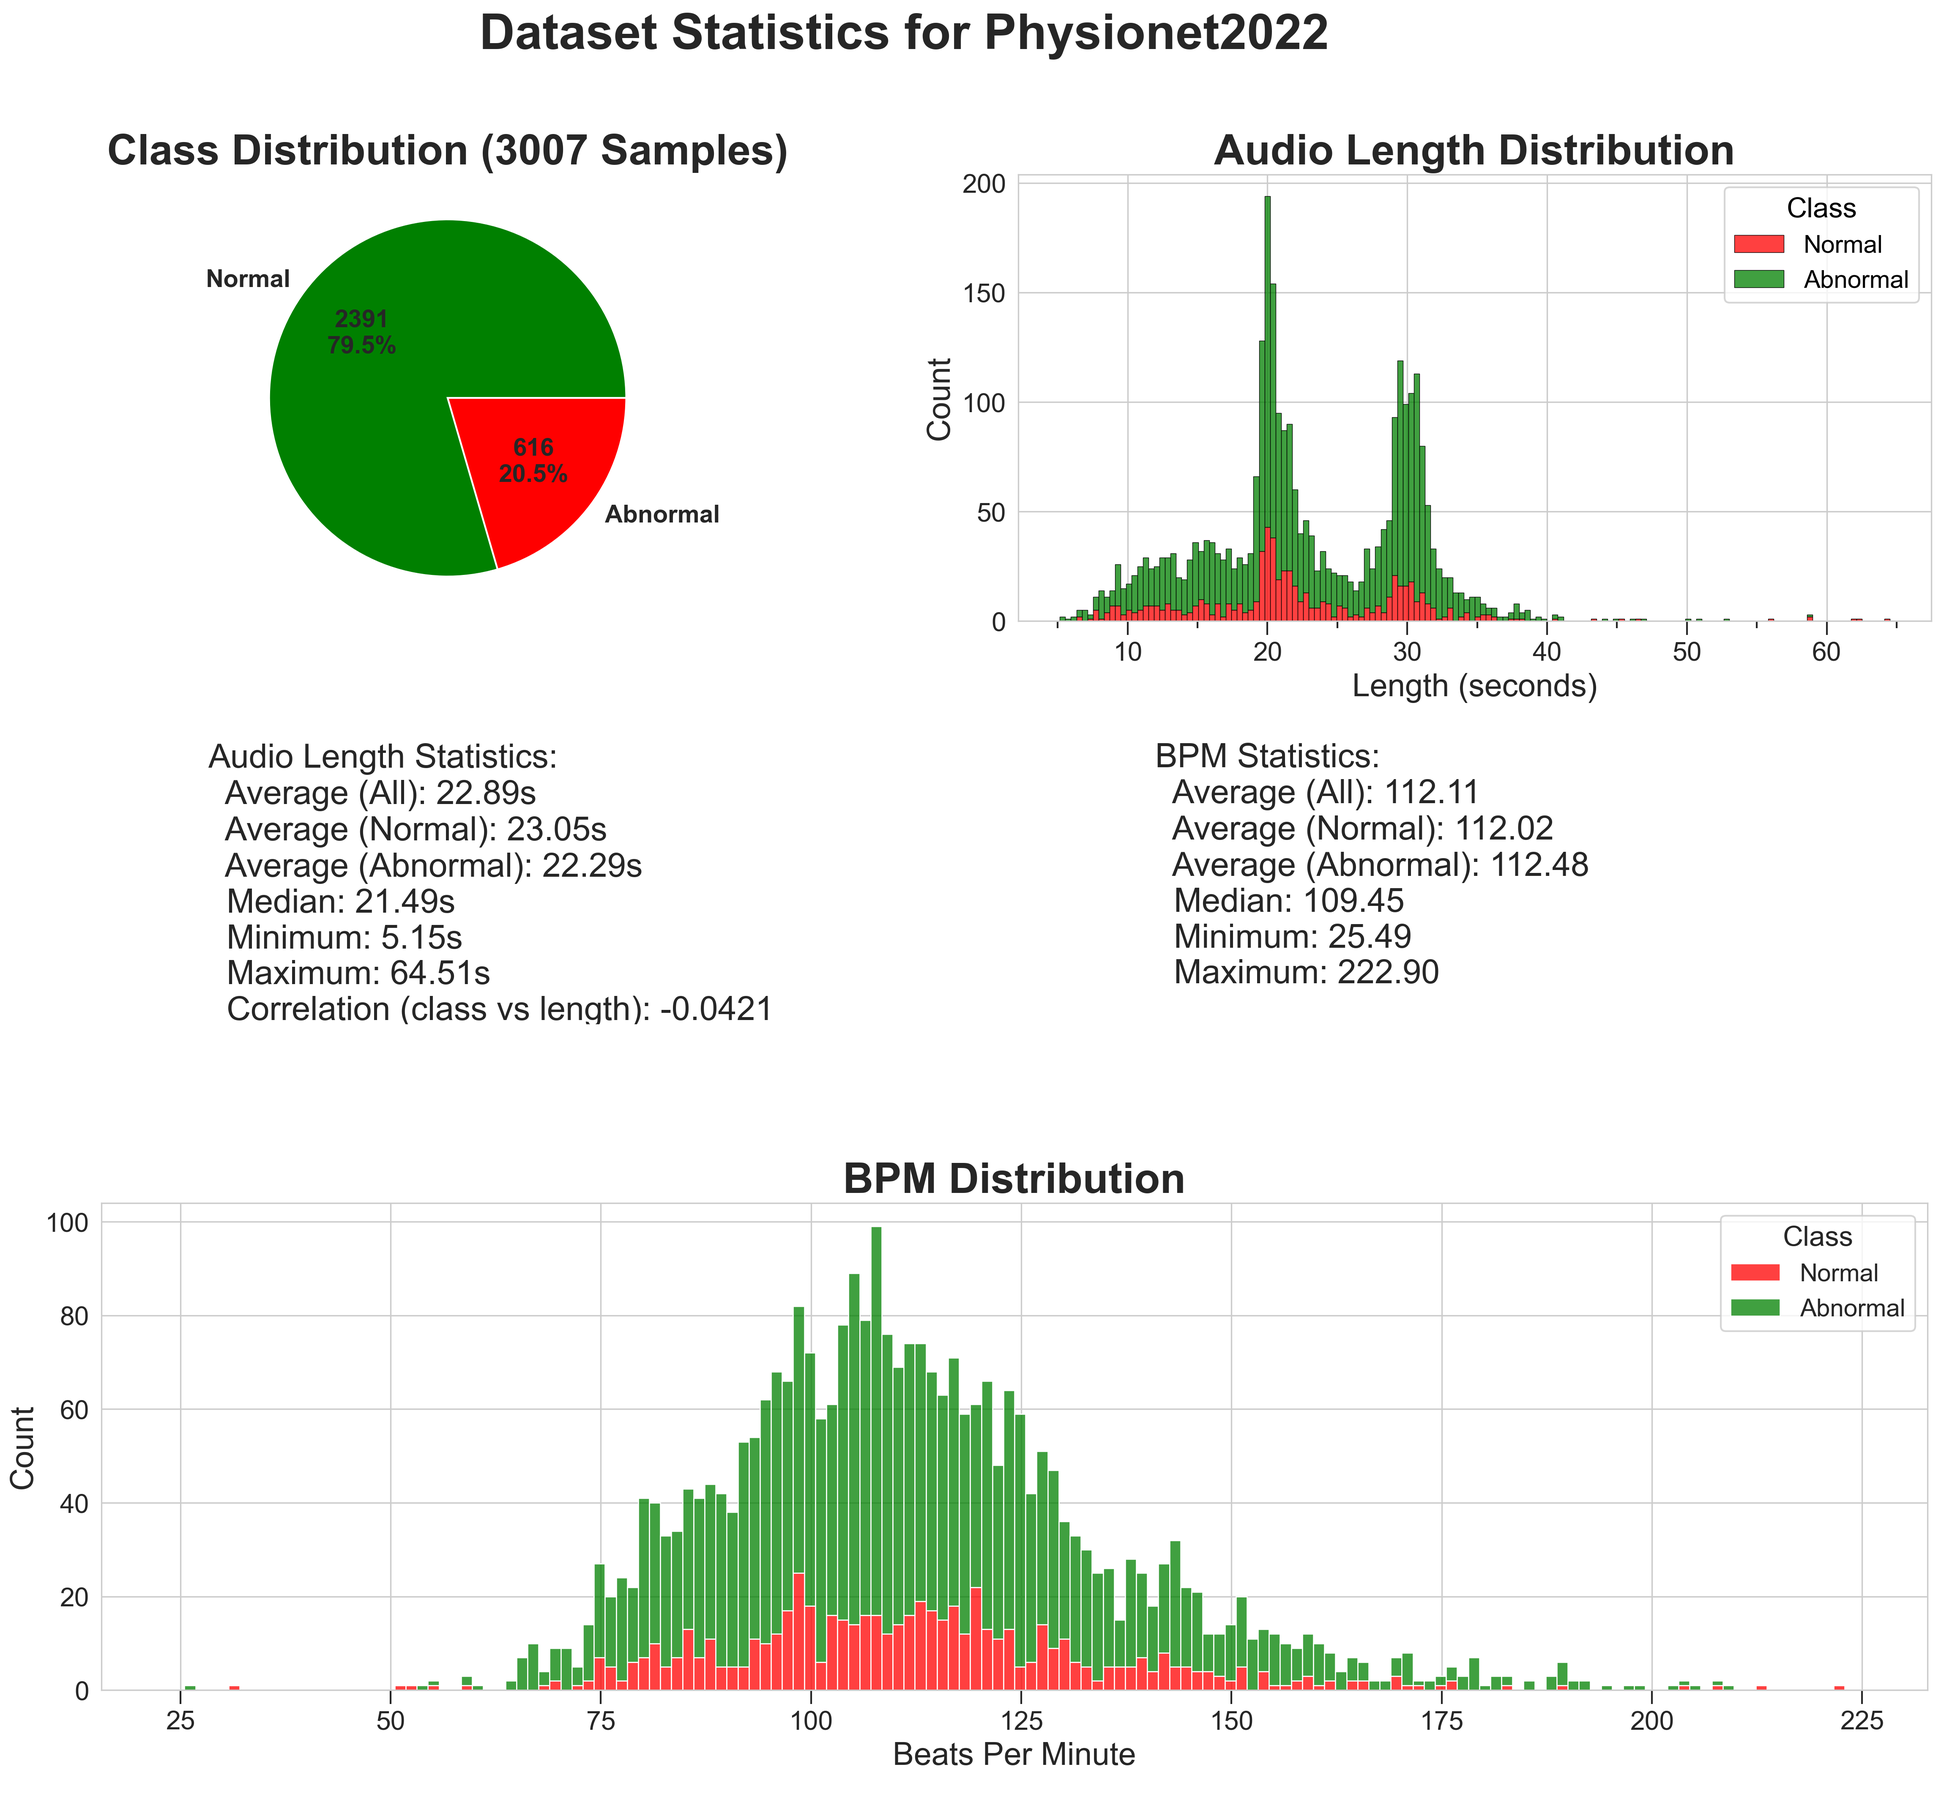
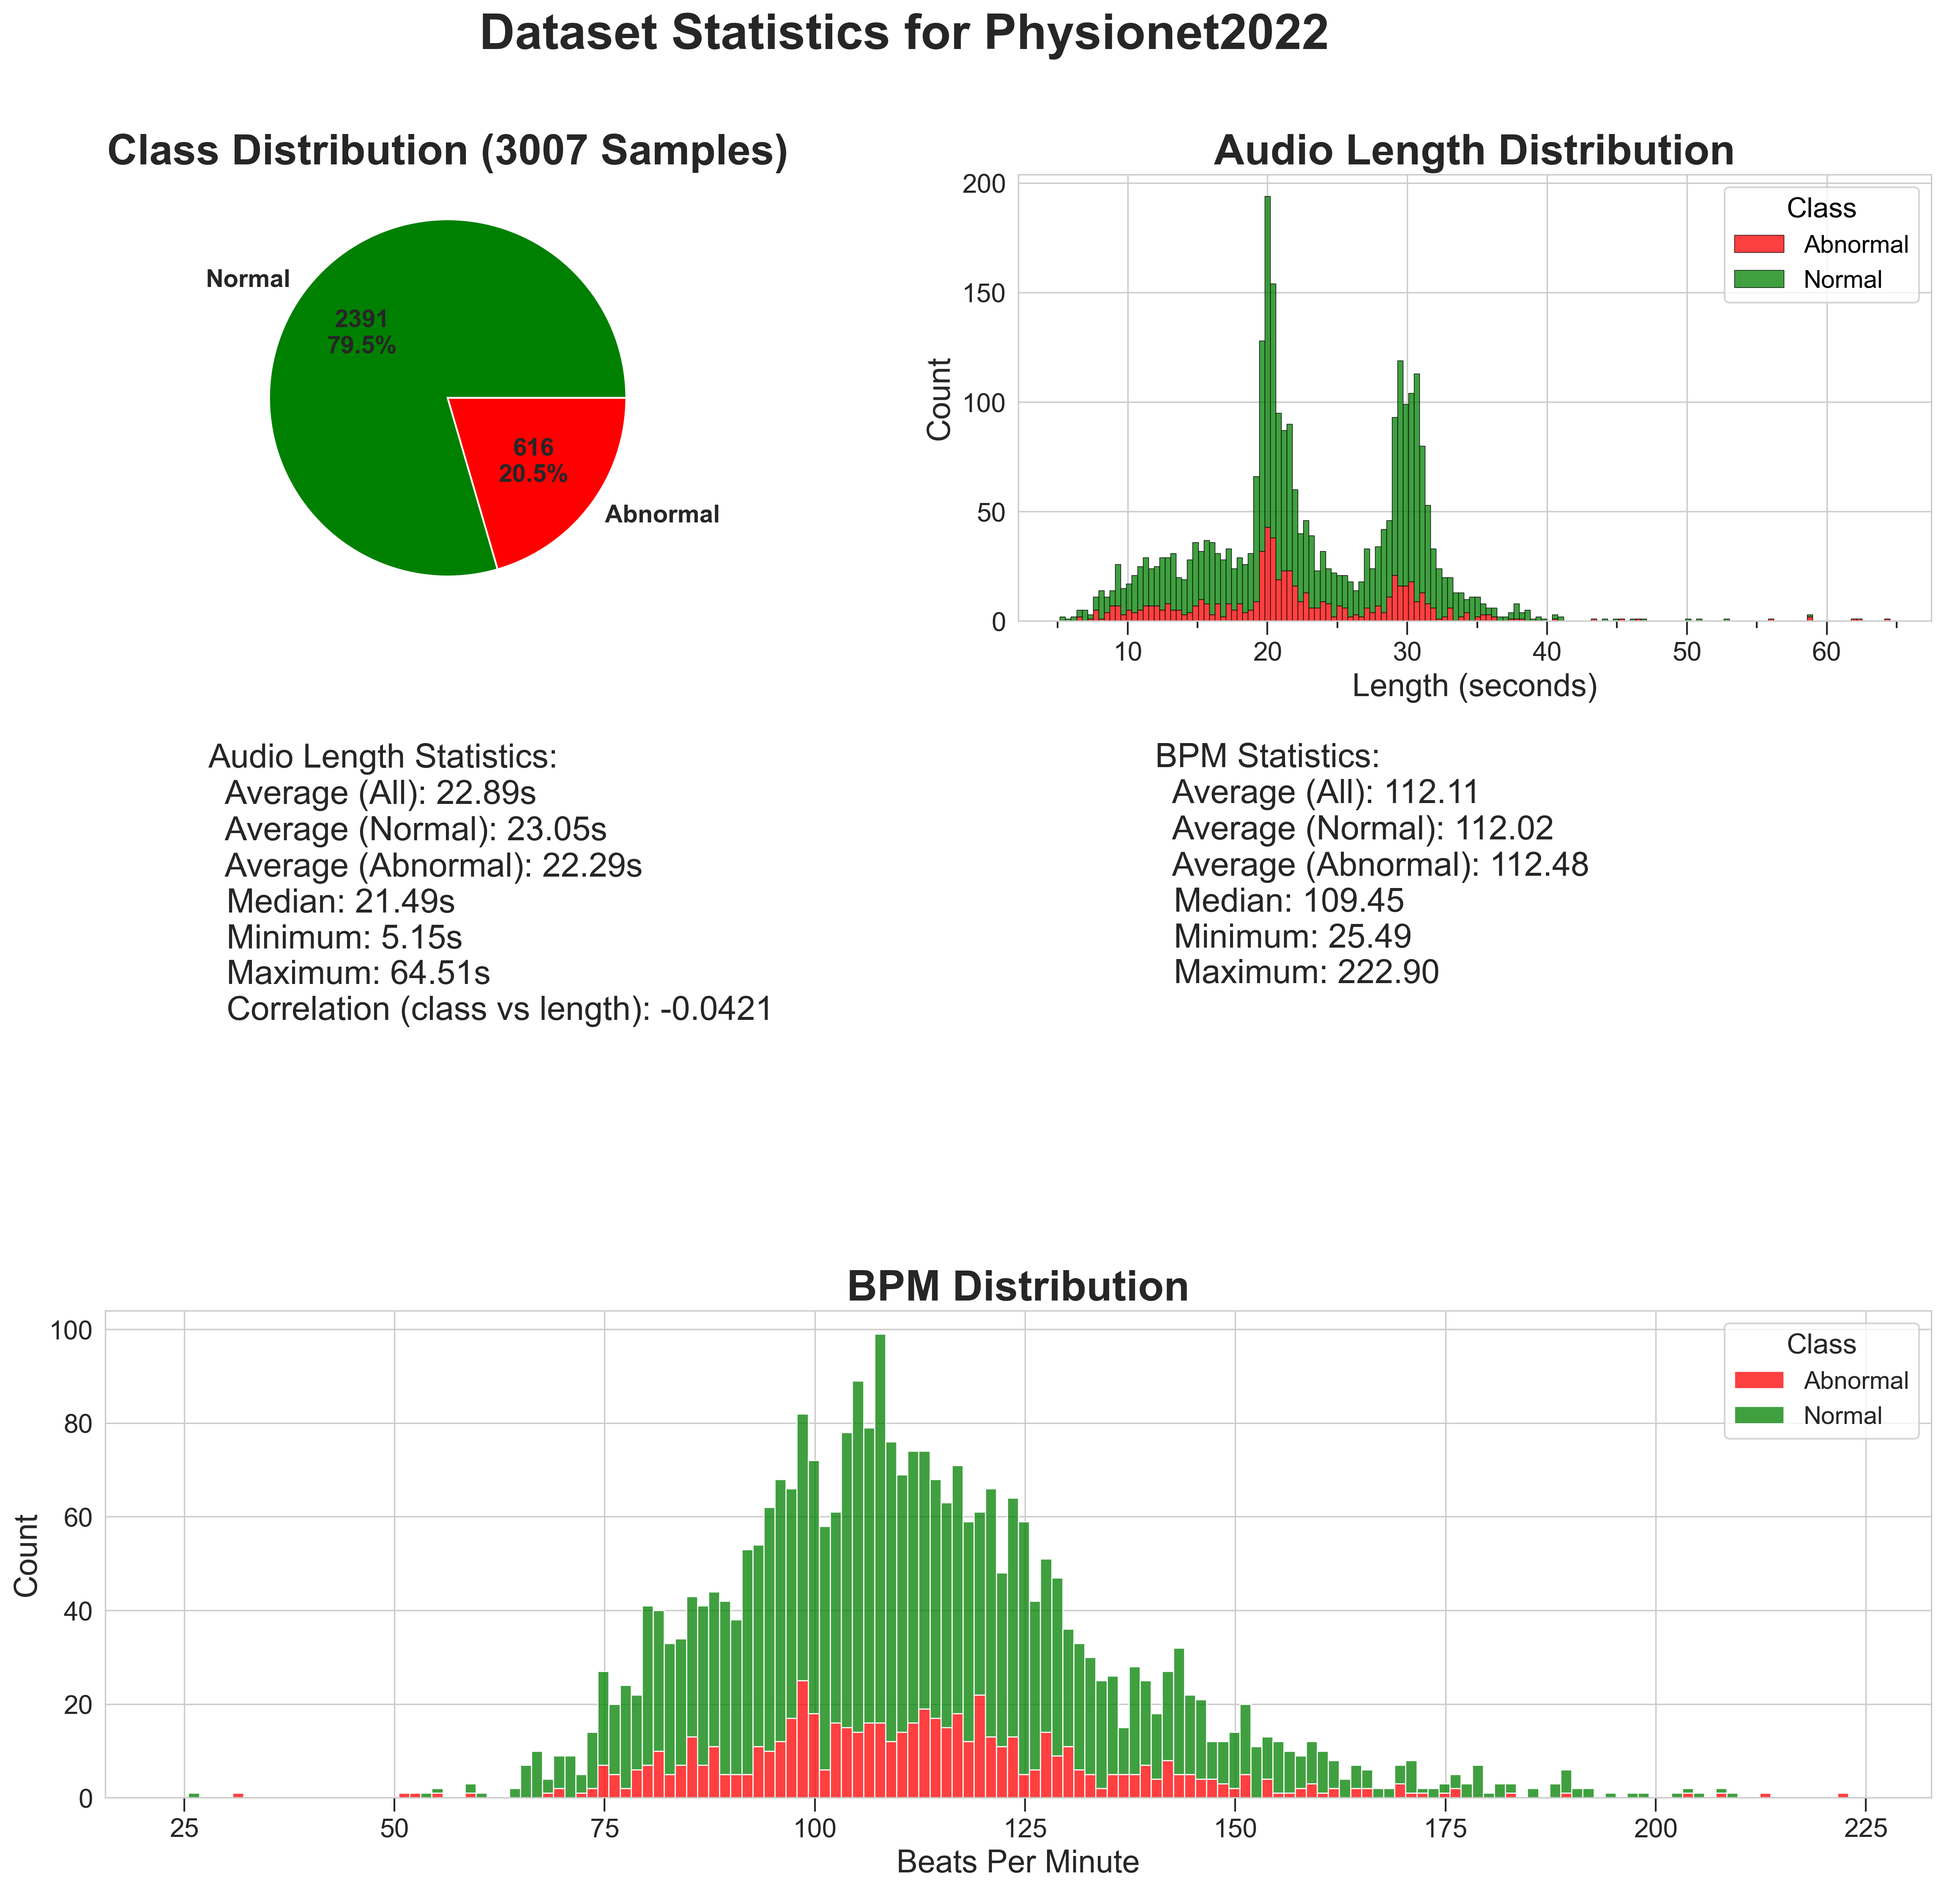
dataset statistics

diff --git a/build_dataset.py b/build_dataset.py
@@ -273,9 +273,6 @@ def calculate_bpm(data):
 		return len(data) / duration_in_minutes if duration_in_minutes > 0 else None
 	return None
 
-import numpy as np
-import pandas as pd
-
 def safe_numeric_conversion(series):
 	try:
 		return pd.to_numeric(series, errors='coerce')
@@ -289,6 +286,56 @@ def safe_correlation(s1, s2):
 		return s1_numeric.corr(s2_numeric)
 	except:
 		return "N/A (correlation calculation failed)"
+
+def get_auscultation_location_stats(filenames) -> dict:
+	"""
+	Returns total count for each location type.
+	Both unique counts per patient and total counts across dataset.
+	"""
+	locations = {
+		'AV': ['AV', 'AV1', 'AV2', 'AVR', 'AVL'],
+		'MV': ['MV', 'MV1', 'MV2', 'MVR', 'MVL'], 
+		'PV': ['PV', 'PV1', 'PV2', 'PVR', 'PVL'],
+		'TV': ['TV', 'TV1', 'TV2', 'TVR', 'TVL']
+	}
+	
+	if isinstance(filenames, str):
+		filenames = [filenames]
+		
+	# Count total occurrences
+	location_counts = {loc: 0 for loc in locations.keys()}
+	
+	for filename in filenames:
+		parts = Path(filename).stem.split('_')
+		if len(parts) < 2:
+			continue
+			
+		location_part = parts[1].upper()
+		
+		for std_loc, variations in locations.items():
+			if any(var in location_part for var in variations):
+				location_counts[std_loc] += 1
+				break
+	
+	# Also get unique count
+	unique_count = sum(1 for loc in location_counts.values() if loc > 0)
+	location_counts['unique_count'] = unique_count
+				
+	return location_counts
+
+def aggregate_location_stats(data: pd.DataFrame) -> pd.DataFrame:
+	"""
+	Aggregates auscultation location statistics per patient.
+	Returns DataFrame with patient stats.
+	"""
+	# Group by patient ID and aggregate filenames
+	patient_files = data.groupby(const.META_PATIENT_ID)[const.META_AUDIO_PATH].agg(list)
+
+	# Get location counts per patient
+	location_counts = patient_files.apply(get_different_auscultation_location_counts)
+
+	return pd.DataFrame.from_records(location_counts.values,
+									index=location_counts.index)
 
 def save_statistics(dataset: AudioDataset, stats_dir: Path):
 	train_data = dataset.load_file_list()
@@ -315,9 +362,35 @@ def save_statistics(dataset: AudioDataset, stats_dir: Path):
 		f.write(f"Median files per patient: {patient_file_counts.median():.2f}\n")
 		f.write(f"Min files per patient: {patient_file_counts.min()}\n")
 		f.write(f"Max files per patient: {patient_file_counts.max()}\n\n")
+		f.write(f"Most file count: {patient_file_counts.value_counts().sort_index().index[-1]}\n")
+
+		f.write("Distribution of patient counts:\n")
+		f.write(patient_file_counts.value_counts().sort_index().to_string())
+		f.write("\n\n")
+
 		f.write("Distribution of file counts:\n")
 		f.write(patient_file_counts.value_counts().sort_index().to_string())
 		f.write("\n\n")
+
+		write_section(f, "Auscultation Location Statistics")
+
+		# Per patient averages
+		location_stats = train_data.groupby(const.META_PATIENT_ID)[const.META_AUDIO_PATH].agg(list).apply(get_auscultation_location_stats)
+		location_df = pd.DataFrame.from_records(location_stats.values, index=location_stats.index)
+
+		f.write(f"Average unique locations per patient: {location_df['unique_count'].mean():.2f}\n")
+
+		# Total counts for each location
+		total_counts = location_df.drop('unique_count', axis=1).sum()
+		f.write("\nTotal recordings per location:\n")
+		for loc, count in total_counts.items():
+			f.write(f"{loc}: {int(count)}\n")
+
+		# Calculate percentages
+		percentages = total_counts / total_counts.sum() * 100
+		f.write("\nPercentage distribution of locations:\n")
+		for loc, pct in percentages.items():
+			f.write(f"{loc}: {pct:.1f}%\n")
 
 		def write_patient_details(dataset: AudioDataset, stats_dir: Path):
 			train_data = dataset.load_file_list()
@@ -386,10 +459,50 @@ def save_statistics(dataset: AudioDataset, stats_dir: Path):
 				f.write("\n")
 
 		if isinstance(dataset, Physionet2022):
+			def _get_heartcycle_coverage(heartcycles, audio_length, sample_rate):
+				total_duration = audio_length / sample_rate
+				covered_duration = 0
+				if len(heartcycles) > 0:
+					covered_duration += heartcycles[-1] - heartcycles[0]
+				else:
+					print(f"No heartcycles for file with length {total_duration:.1f}s")
+				return covered_duration, total_duration
+
 			write_section(f, "Heartcycles Statistics")
-			heartcycles = train_data[const.META_HEARTCYCLES]
+			heartcycles  = train_data[const.META_HEARTCYCLES]
+			total_entries = len(heartcycles)
+			entries_with_heartcycles = heartcycles.apply(lambda x: len(x) > 0).sum()
+			percentage = (entries_with_heartcycles / total_entries) * 100
+			f.write(f"Percentage of entries with heartcycle information: {percentage:.2f}%\n")
+			f.write(f"Entries with heartcycle information: {entries_with_heartcycles}/{total_entries}\n\n")
+
+			total_covered = 0
+			total_audio = 0
+			for idx, cycles in heartcycles.items():
+				covered, duration = _get_heartcycle_coverage(
+					cycles,
+					train_data.loc[idx, const.META_LENGTH],
+					dataset.target_samplerate
+				)
+				total_covered += covered
+				total_audio += duration
+
+			# Basis-Statistiken
 			heartcycles_counts = heartcycles.apply(len)
+			f.write(f"Total audio duration: {total_audio:.1f}s\n")
+			f.write(f"Total annotated duration: {total_covered:.1f}s\n")
+			f.write(f"Count of heartcycles: {heartcycles_counts.sum()}\n")
+			f.write(f"Temporal coverage: {(total_covered/total_audio)*100:.1f}%\n\n")
+
+			# Heartcycle counts pro File
+			f.write("Heartcycle annotations per file:\n")
 			f.write(heartcycles_counts.describe().to_string() + "\n\n")
+
+			# heartcycle duration per file
+			heartcycle_durations = heartcycles.apply(lambda x: x[-1] - x[0] if len(x) > 0 else 0)
+			f.write("Heartcycle durations per file:\n")
+			f.write(heartcycle_durations.describe().to_string() + "\n\n")
+
 
 			f.write("Correlation with audio length: ")
 			f.write(f"{safe_correlation(heartcycles_counts, seconds)}\n\n")
@@ -450,20 +563,20 @@ def plot_audio_length_distribution(data, seconds, ax, colors):
 		ax.xaxis.set_minor_locator(plt.MultipleLocator(5))
 
 		# Tick Größen und Sichtbarkeit explizit setzen
-		ax.tick_params(axis='x', which='both', bottom=True)
-		ax.tick_params(axis='x', which='major', length=8, width=1, labelsize=15)
-		ax.tick_params(axis='x', which='minor', length=4, width=1, labelsize=12)
-		ax.tick_params(axis='y', which='major', labelsize=15)
+		ax.tick_params(axis="x", which="both", bottom=True)
+		ax.tick_params(axis="x", which="major", length=8, width=1, labelsize=15)
+		ax.tick_params(axis="x", which="minor", length=4, width=1, labelsize=12)
+		ax.tick_params(axis="y", which="major", labelsize=15)
 
 		# Minor ticks für beide Achsen aktivieren
 		for axis in [ax.xaxis, ax.yaxis]:
-			axis.set_tick_params(which='minor', bottom=True, top=False)
+			axis.set_tick_params(which="minor", bottom=True, top=False)
 
-		ax.legend(title="Class", labels=["Normal", "Abnormal"], fontsize=14, title_fontsize=16)
+		ax.legend(title="Class", labels=["Abnormal", "Normal"], fontsize=14, title_fontsize=16)
 
 def plot_bpm_distribution(data, ax, colors):
 	sns.histplot(data=data, x="bpm", hue=data[const.META_LABEL_1].map({0: "Normal", 1: "Abnormal"}),
-				 palette=colors, multiple="stack", kde=False, ax=ax, bins=150)
+					palette=colors, multiple="stack", kde=False, ax=ax, bins=150)
 	ax.set_title("BPM Distribution", fontsize=24, fontweight="bold")
 	ax.set_xlabel("Beats Per Minute", fontsize=18)
 	ax.set_ylabel("Count", fontsize=18)
@@ -473,15 +586,15 @@ def plot_bpm_distribution(data, ax, colors):
 	#ax.xaxis.set_minor_locator(plt.MultipleLocator(25))
 
 	# Tick Größen und Sichtbarkeit explizit setzen
-	ax.tick_params(axis='x', which='both', bottom=True)
-	ax.tick_params(axis='x', which='major', length=8, width=1, labelsize=15)
+	ax.tick_params(axis="x", which="both", bottom=True)
+	ax.tick_params(axis="x", which="major", length=8, width=1, labelsize=15)
 	#ax.tick_params(axis='x', which='minor', length=4, width=1, labelsize=12)
-	ax.tick_params(axis='y', which='major', labelsize=15)
+	ax.tick_params(axis="y", which="major", labelsize=15)
 
 	# Minor ticks für beide Achsen aktivieren
 	#for axis in [ax.xaxis, ax.yaxis]:
 	#	axis.set_tick_params(which='minor', bottom=True, top=False)
-	ax.legend(title="Class", labels=["Normal", "Abnormal"], fontsize=14, title_fontsize=16)
+	ax.legend(title="Class", labels=["Abnormal", "Normal"], fontsize=14, title_fontsize=16)
 
 def generate_text_content(data, seconds):
 	text_content = 	f"Audio Length Statistics:\n"
@@ -582,5 +695,5 @@ def start_statistics_and_plots():
 	print("Done generating statistics and plots")
 
 if __name__ == "__main__":
-	start_parse()
+	#start_parse()
 	start_statistics_and_plots()

diff --git a/single_file_preview.py b/single_file_preview.py
@@ -71,19 +71,19 @@ def compare_audio_processing(audio_file: Path, config: dict):
 	cycle_markers = row_dict[META_HEARTCYCLES]
 
 	fig, axes = plt.subplots(3, 2, figsize=(20, 16))
-	plt.subplots_adjust(hspace=0.2, wspace=0.4)
+	plt.subplots_adjust(hspace=0.2, wspace=0.3)
 	fig.suptitle(f"Audio Processing Comparison - {chunk_name} class: {row_dict[META_LABEL_1]}", fontsize=16)
 
 	sr = cnn_dataset.target_samplerate
 
 	# Linke Spalte: Signale
-	audioutils.AudioUtil.SignalPlotting.show_signal(samples=raw_audio, samplerate=sr, ax=axes[0, 0], cycle_marker=cycle_markers, raw=True)
+	audioutils.AudioUtil.SignalPlotting.show_signal(samples=raw_audio, samplerate=sr, ax=axes[0, 0], cycle_marker=cycle_markers, raw=True, cycle_lines=True)
 	axes[0, 0].set_title("Original Signal")
 
-	audioutils.AudioUtil.SignalPlotting.show_signal(samples=normalized_audio, samplerate=sr, ax=axes[1, 0], cycle_marker=cycle_markers, raw=True)
+	audioutils.AudioUtil.SignalPlotting.show_signal(samples=normalized_audio, samplerate=sr, ax=axes[1, 0], cycle_marker=cycle_markers, raw=True, cycle_lines=True)
 	axes[1, 0].set_title(f"Normalized + Filtered Signal")
 
-	audioutils.AudioUtil.SignalPlotting.show_signal(samples=augmented_audio, samplerate=sr, ax=axes[2, 0], cycle_marker=cycle_markers, raw=True)
+	audioutils.AudioUtil.SignalPlotting.show_signal(samples=augmented_audio, samplerate=sr, ax=axes[2, 0], cycle_marker=cycle_markers, raw=True, cycle_lines=True)
 	axes[2, 0].set_title(f"Augmented Signal ")
 
 	# Rechte Spalte: Spektrogramme
@@ -102,7 +102,7 @@ def compare_audio_processing(audio_file: Path, config: dict):
 	)
 	axes[2, 1].set_title("Augmented Mel Spectrogram")
 
-	plt.tight_layout(rect=[0, 0.03, 1, 0.95])
+	plt.tight_layout()
 	plt.show()
 
 	print(f"Audio Chunk Details:")
@@ -130,7 +130,7 @@ config.update(config_demo)
 config_override = {
 	TRAIN_DATASET: PHYSIONET_2022,
 	NORMALIZATION: NORMALIZATION_MAX_ABS,
-	CHUNK_DURATION: 27.0,
+	CHUNK_DURATION: -1,
 	CHUNK_METHOD: CHUNK_METHOD_FIXED,
 	AUDIO_LENGTH_NORM: LENGTH_NORM_PADDING,
 	# CNN_PARAMS: {
@@ -143,6 +143,6 @@ config_override = {
 
 config.update(config_override)
 
-audio_file = Path("data/physionet2022/training_data/49824_MV.wav")
+audio_file = Path("data/physionet2022/training_data/84839_AV.wav")
 
 compare_audio_processing(audio_file, config)
